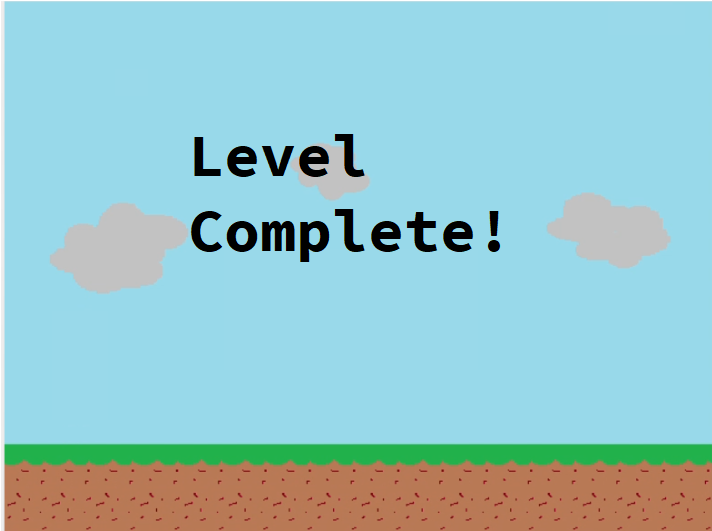
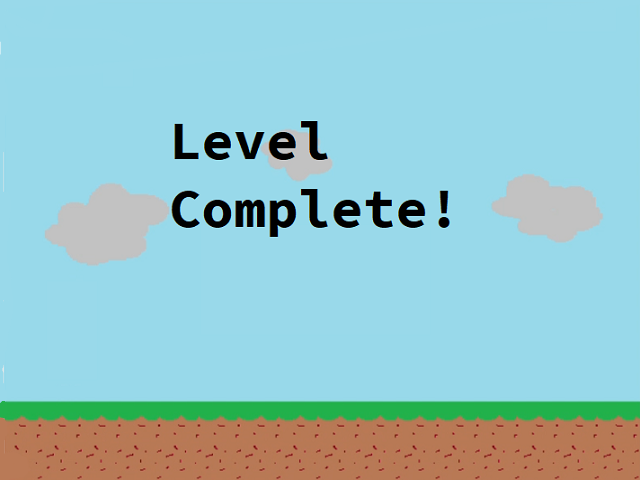
Fixed image position bug

Changed region(s): [[0.0, 0.0, 1.0, 1.0]]

diff --git a/main.py b/main.py
@@ -145,7 +145,7 @@ while True:
     SURFACE.fill(WHITE)
     
     if state == STATE_FAIL:
-        SURFACE.blit(FAILED, (-1,-1))
+        SURFACE.blit(FAILED, (0,0))
         coins -= 10
         if coins < 0:
             coins = 0
@@ -154,7 +154,7 @@ while True:
     #-----------------------------------------------------------------------------
 
     elif state == STATE_LOGO:
-        SURFACE.blit(LOGO,(-1,-1))
+        SURFACE.blit(LOGO,(0,0))
         state = STATE_LEVEL_SELECT
         pygame.display.update()
         pygame.time.wait(1500)
@@ -164,7 +164,7 @@ while True:
     elif state == STATE_COMPLETE_LEVEL:
         if level < 4:
             levels[level+1]["locked"] = False
-        SURFACE.blit(COMPLETE, (-1,-1))
+        SURFACE.blit(COMPLETE, (0,0))
         setState(STATE_LEVEL_SELECT)
         if(level == 5):
             setState(STATE_GAME_OVER)
